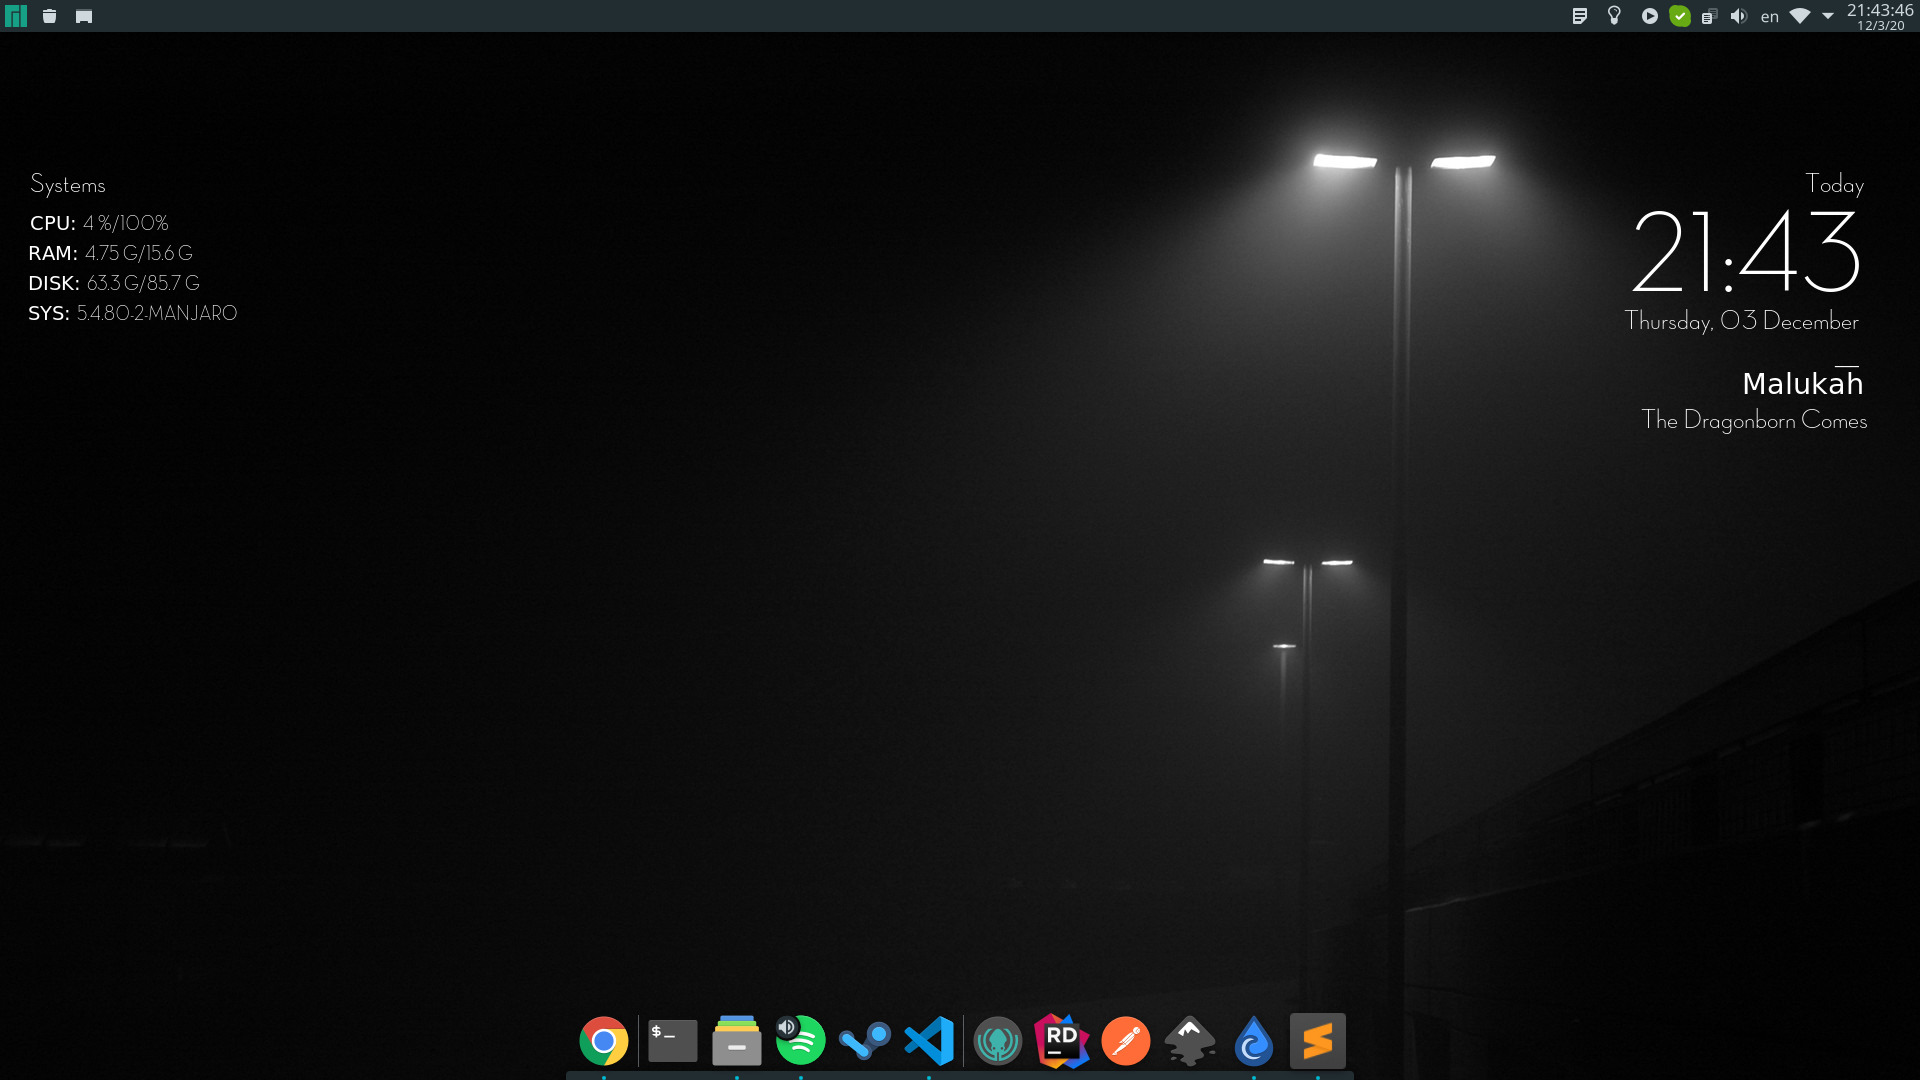
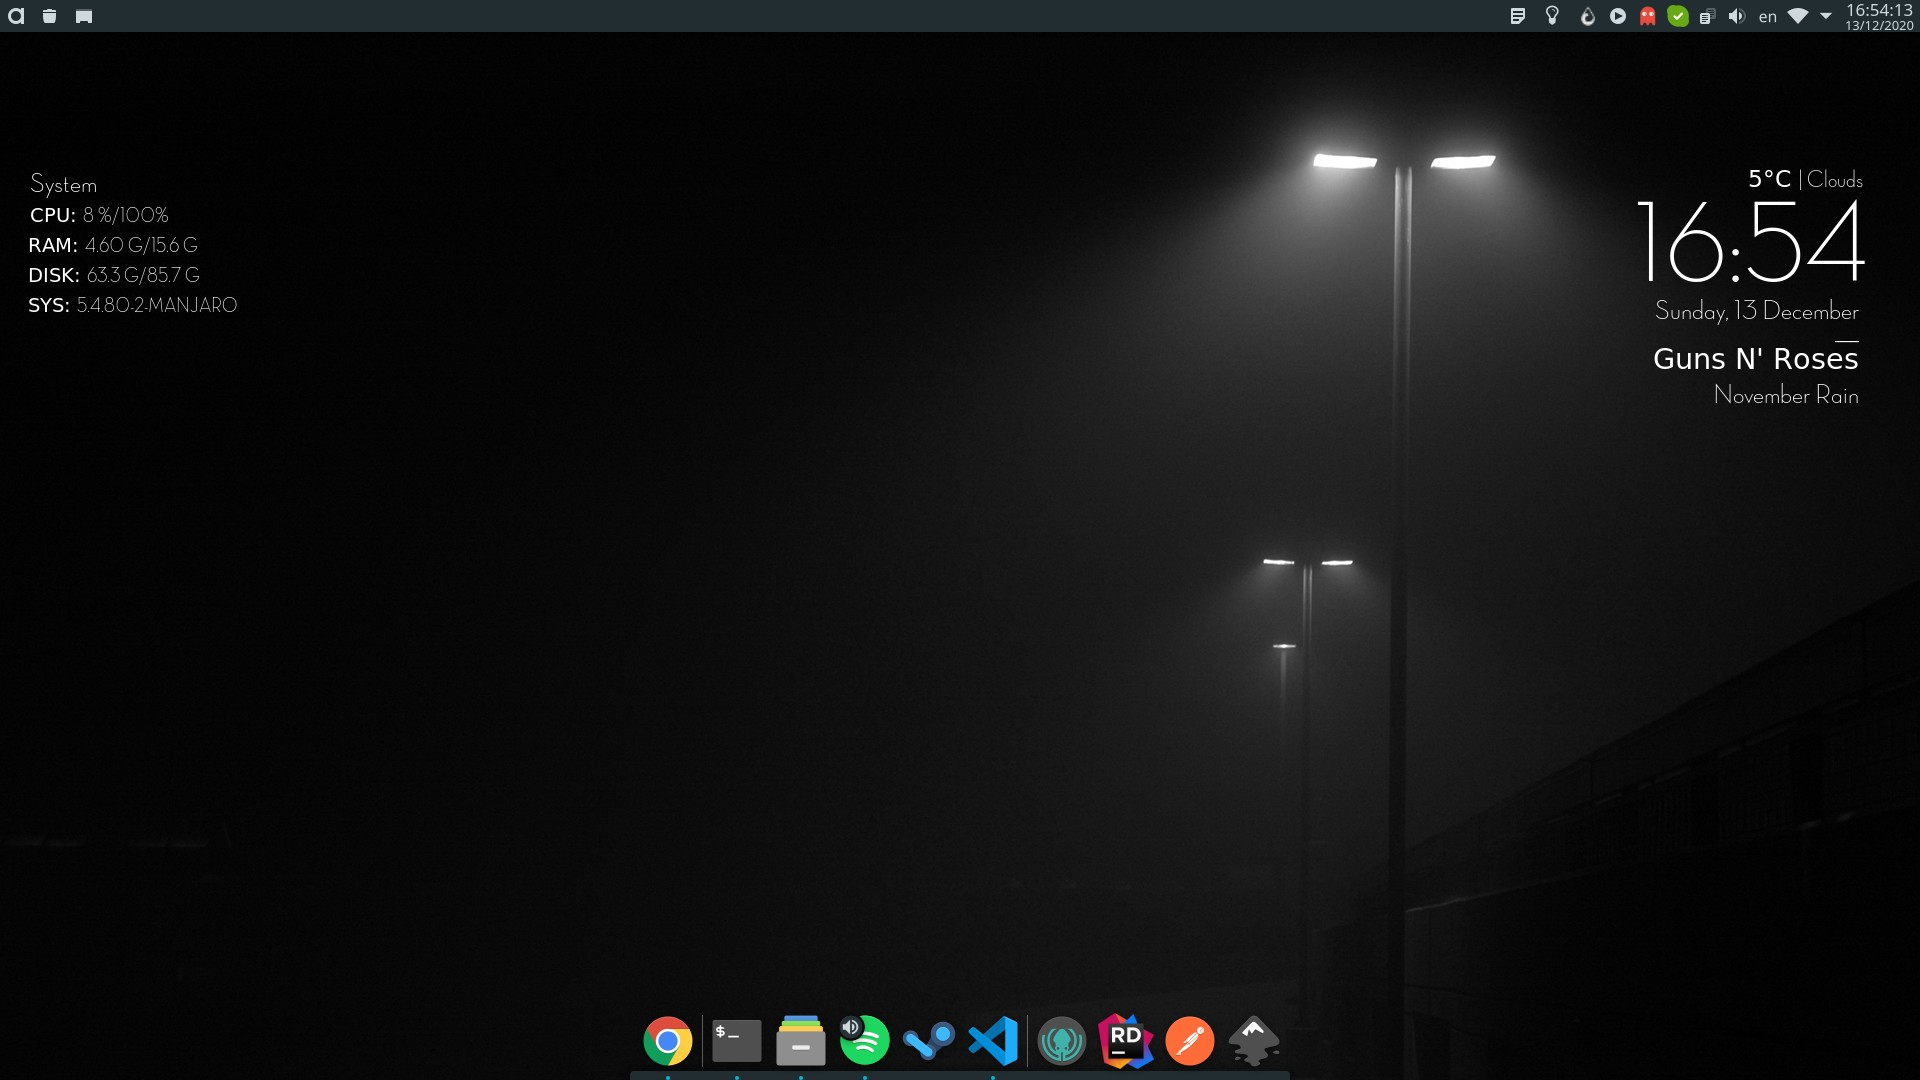
feat: add weather module

diff --git a/README.md b/README.md
@@ -1,10 +1,12 @@
 # SSUI Conky
 
-SSUI is a modular conky suite.
+SSUI is a modular conky suite with the minimalistic and clean design in focus.
+
 It consists of following modules:
 - Clock
 - Spotify
 - System
+- Weather
 
 Use config file to enable/disable widgets.
 
@@ -23,6 +25,10 @@ Use config file to enable/disable widgets.
 
 ![alt text](assets/system.jpg "System")
 
+## Weather
+
+![alt text](assets/weather.jpg "Weather")
+
 ## Full
 
 ![alt text](assets/full.jpg "Full")
@@ -35,11 +41,12 @@ Use config file to enable/disable widgets.
 - lua 5.4 (it may work on older version, but it is not tested)
 - font Adele (can be found in `assets` directory)
 
-| Module  | Requirements |
-| ------  | ------------ |
-| clock   | -            |
-| spotify | spotify      |
-| system  | -            |
+| Module  | Requirements                            |
+| ------  | --------------------------------------- |
+| clock   | -                                       |
+| spotify | spotify                                 |
+| system  | -                                       |
+| weather | luajson, luasocket, openweather api key |
 
 
 # Install
@@ -55,13 +62,16 @@ Run `install.sh` (check if you have execution permission) or do it manually.
 
 Before running SSUI you maybe want to configure it.
 
-Update entries `config.lua` to enable or disable some module.
+Update `config.lua`.
 
 ```lua
 return {
-  clock = true, 
-  system = true, -- change it to false maybe?
-  spotify = true
+  modules = {'clock', 'system', 'spotify', 'weather'}, -- list of enabled modules
+  weather = { -- options for weather module
+    api_key = '<API_KEY>', -- from https://openweathermap.org/api
+    city_id = '<CITY_ID>' -- from https://openweathermap.org/api,
+    unit = '<UNIT_OF_MEASURE>' -- <metric | imperial>
+  }
 }
 ```
 
@@ -75,7 +85,7 @@ Run `start.sh`. Simple as that.
 
 ## Autostart [Manjaro KDE Example]
 
-You would probably like to start it automatically so here is what you can do.
+You would probably like to start it automatically on startup so here is what you can do.
 
 *Note*: you may need to make some changes to suit yourself.
 
@@ -97,3 +107,8 @@ Type=Application
 
 ```
 3. Done
+
+
+# Changelog
+
+Complete changelog available at [link](CHANGELOG.md).

diff --git a/CHANGELOG.md b/CHANGELOG.md
@@ -1,0 +1,27 @@
+# Changelog
+
+# v1.1.0 [2020-12-13]
+
+## Added **weather** module
+
+- Positioned above the clock module
+- Provides current temperature and basic description
+- Temperature unit is customizable in *config.lua*
+- Uses [https://openweathermap.org/api](https://openweathermap.org/api)
+
+## Changed config.lua format
+
+Enabled modules are presented as a list: 
+```lua
+modules = {'clock', 'system', 'spotify', 'weather'}
+```
+
+
+# v1.0.0 [2020-12-02]
+
+## Initial released version
+
+Implemented modules:
+- Clock (displays current date and time)
+- Spotify (displays current playing song and artist name)
+- System (displays basic system info: cpu, ram, disk usage)
